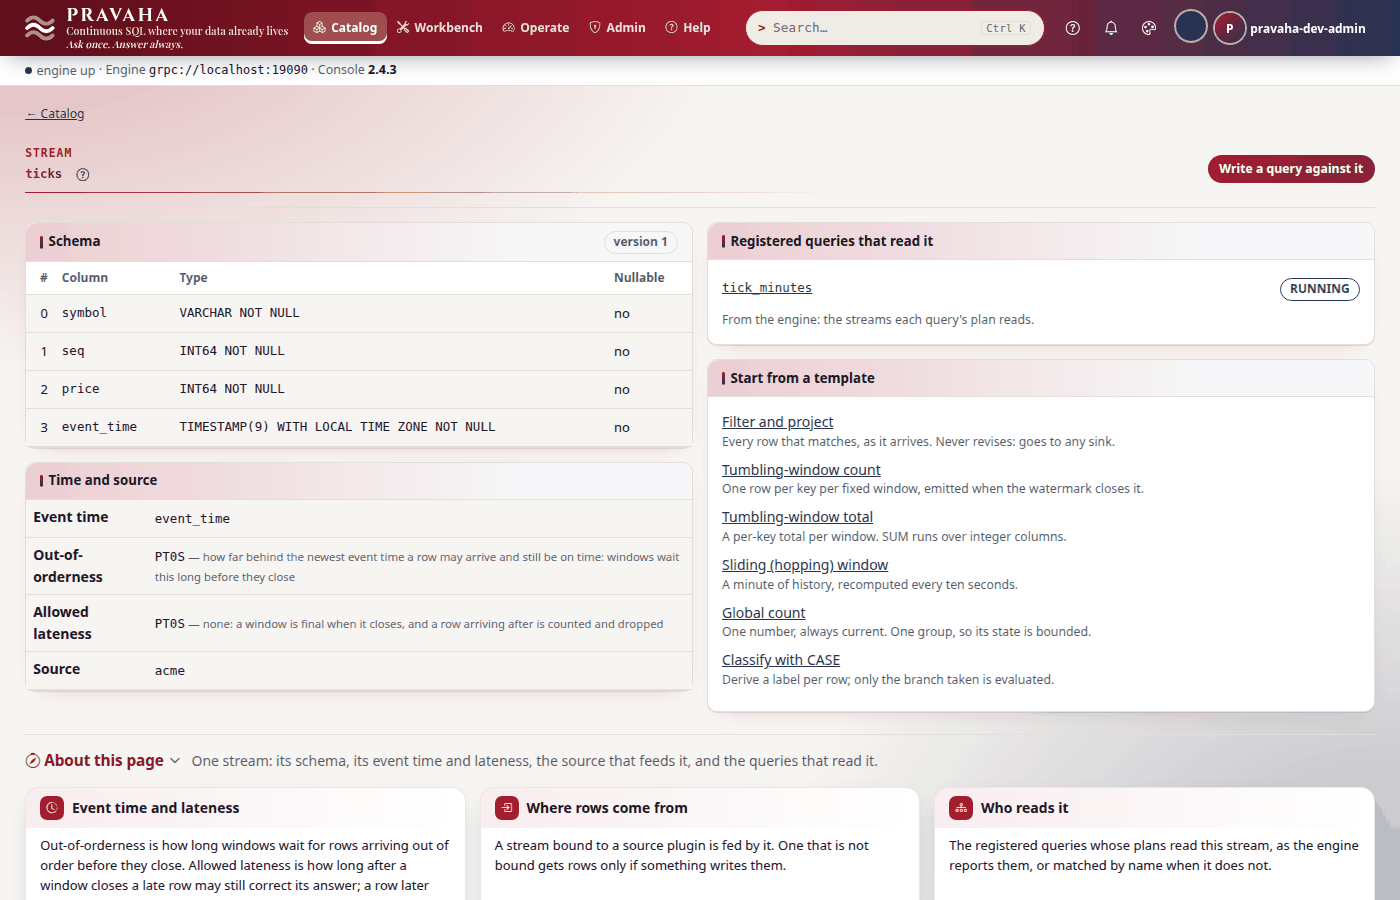
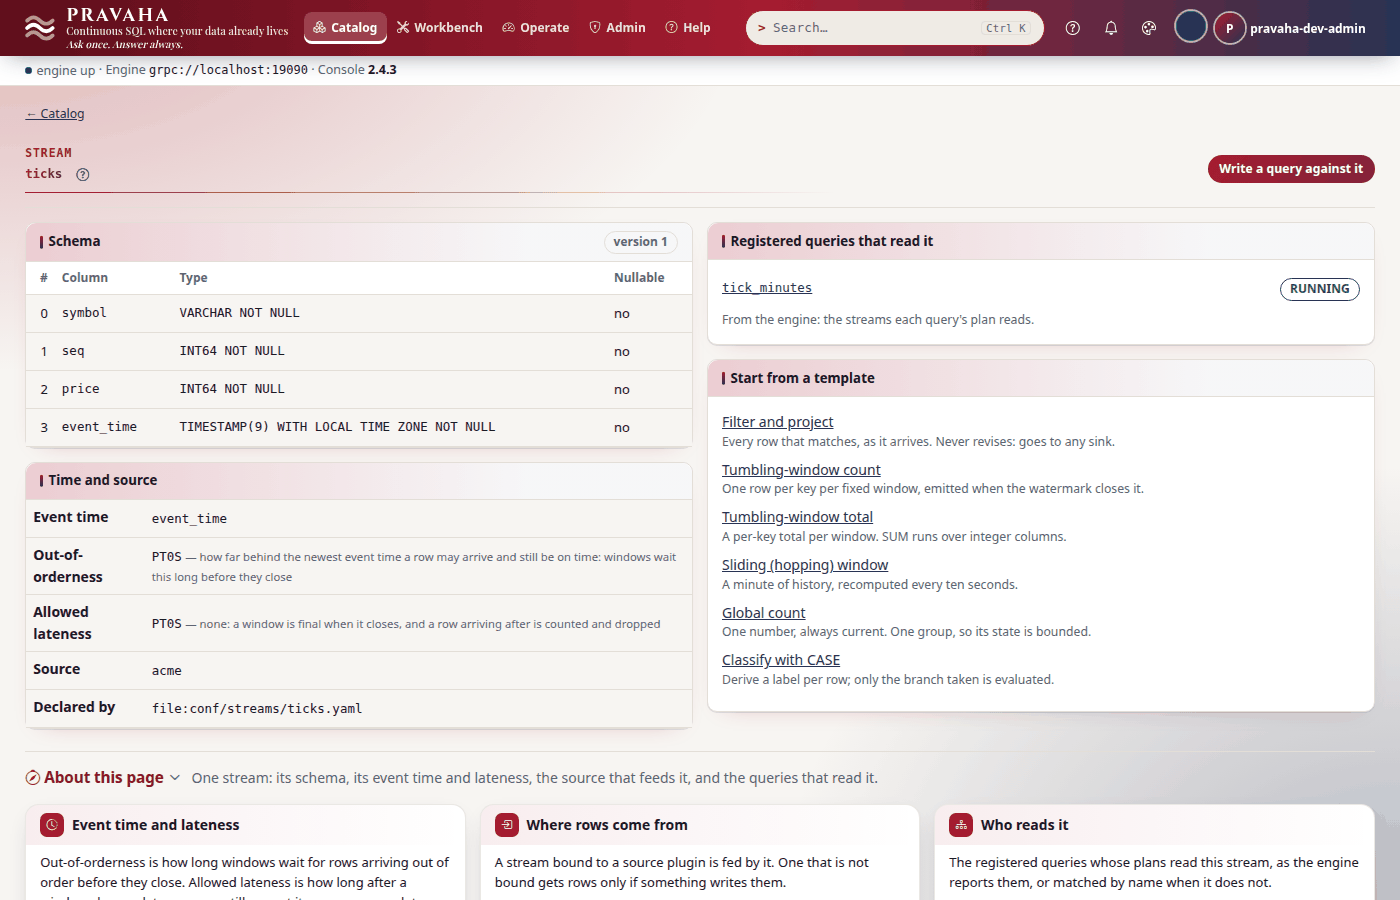
Tutorial 13 on the fixes: plugin new takes the checkout's version, the TCK over two partitions; the stream and the sink a file each; the plugin's own code by name, not an invented PRV number

diff --git a/sdk/python/tools/tutorials/t13.py b/sdk/python/tools/tutorials/t13.py
@@ -11,22 +11,21 @@ TCK, the jar dropped in beside the source, a restart, and a query writing to it.
 """
 
 import pathlib
-import re
 
 from tutorial_captures import REPO, Cli, Node, Open, Restart, Sh, Snap, Until
 
 DOC = "13-writing-a-connector.md"
 
-NODE = Node(config="t13/application.yaml", plugins=True, files=(
+NODE = Node(plugins=True, files=(
+    ("t13/streams", "conf/streams"),
     ("t13/AcmeSourcePlugin.java", "tutorial/AcmeSourcePlugin.java"),
     ("t13/AcmeReader.java", "tutorial/AcmeReader.java"),
     ("t13/AcmeSourceTckTest.java", "tutorial/AcmeSourceTckTest.java"),
-    ("t13/application-with-ledger.yaml", "tutorial/application-with-ledger.yaml"),
+    ("t13/sinks", "tutorial/sinks"),
     ("t13/tick_minutes.sql", "tick_minutes.sql"),
 ))
 
 _M2 = REPO / ".m2-local" if (REPO / ".m2-local").is_dir() else pathlib.Path.home() / ".m2" / "repository"
-_VERSION = re.search(r"<version>([^<]+)</version>", (REPO / "pom.xml").read_text(encoding="utf-8")).group(1)
 _MVN = f"mvn -o -B -Dmaven.repo.local={_M2}"
 T = "docs/tutorials/data/t13"
 SRC = "src/main/java/com/example/acme"
@@ -38,8 +37,8 @@ LEDGER_JAR = "pravaha-plugin-acme-ledger/target/pravaha-plugin-acme-ledger-0.1.0
 
 
 def new(capture, name: str, kind: str) -> Sh:
-    return Sh(capture, f"pravaha plugin new {name} --kind {kind} --pravaha-version {_VERSION}",
-              show=f'pravaha plugin new {name} --kind {kind} --pravaha-version "$PRAVAHA_VERSION"')
+    # In a checkout the CLI takes the version the checkout builds (PLUGINVER-1), as a reader's does.
+    return Sh(capture, f"pravaha plugin new {name} --kind {kind}")
 
 
 def verify(capture, project: str, prefix: str = "") -> Sh:
@@ -85,7 +84,7 @@ STEPS = (
     # The sink, briefly.
     new("t13-new-sink", "acme-ledger", "sink"),
     verify("t13-verify-sink", "pravaha-plugin-acme-ledger"),
-    Sh("t13-install-sink", f"cp {LEDGER_JAR} plugins/ && cp tutorial/application-with-ledger.yaml conf/application.yaml"
+    Sh("t13-install-sink", f"cp {LEDGER_JAR} plugins/ && cp -r tutorial/sinks conf/"
                            " && mkdir -p data/outgoing && ls plugins",
        show='cp target/pravaha-plugin-acme-ledger-0.1.0-SNAPSHOT.jar "$PRAVAHA_HOME/plugins/" && ls "$PRAVAHA_HOME/plugins"'),
     Restart(),

diff --git a/docs/tutorials/data/t13/AcmeSourceTckTest.java b/docs/tutorials/data/t13/AcmeSourceTckTest.java
@@ -13,9 +13,9 @@ import com.ash.messaging.pravaha.api.plugin.StreamSourcePlugin;
 import com.ash.messaging.pravaha.testkit.tck.SourcePluginTck;
 
 /**
- * The ten conformance tests every shipped source runs, over a fixture of one symbol and five ticks.
- * One symbol, because the TCK's replay test resumes partition 0 and expects the rest of the whole
- * fixture from it (TCKPARTS-1): with two symbols it would count the other symbol's ticks as lost.
+ * The ten conformance tests every shipped source runs, over a fixture of two symbols -- two
+ * partitions -- and five ticks each. The replay test resumes every partition from an offset of its
+ * own and expects that partition's remainder.
  */
 class AcmeSourceTckTest extends SourcePluginTck {
 
@@ -24,7 +24,7 @@ class AcmeSourceTckTest extends SourcePluginTck {
     @Override
     protected StreamSourcePlugin createPlugin() {
         AcmeSourcePlugin plugin = new AcmeSourcePlugin();
-        plugin.configure(new Context("ticks", Map.of("symbols", "ACME", "ticks", "5")));
+        plugin.configure(new Context("ticks", Map.of("symbols", "ACME,GLOBEX", "ticks", "5")));
         plugin.open();
         return plugin;
     }
@@ -36,6 +36,6 @@ class AcmeSourceTckTest extends SourcePluginTck {
 
     @Override
     protected int expectedRecordCount() {
-        return 5;
+        return 10;
     }
 }

diff --git a/docs/tutorials/13-writing-a-connector.md b/docs/tutorials/13-writing-a-connector.md
@@ -22,19 +22,17 @@ was printed by a real build and a real node running these steps.
 - Java 21 or later and Maven 3.9. The engine's artefacts in your local Maven repository: in a checkout,
   `./mvnw -q -DskipTests install` once (it installs `pravaha-api` and `pravaha-testkit`, which a
   plugin builds against).
-- `PRAVAHA_VERSION` set to that version. `pravaha plugin new` writes it into the project's `pom.xml`;
-  without `--pravaha-version` it uses the CLI's own version, which in a checkout is the release number
-  without `-SNAPSHOT` (`2.4.3` where the engine you built is `2.4.3-SNAPSHOT`), and the build then
-  cannot find the engine (PLUGINVER-1).
+- `pravaha plugin new` writes the engine's version into the project's `pom.xml`: run from a checkout,
+  the version that checkout builds (`-SNAPSHOT` and all), so the project finds the engine you
+  installed; from an installed CLI, the CLI's own. `--pravaha-version` names another.
 - The tutorial's files, in [data/t13/](data/t13/): the source (`AcmeSourcePlugin.java`,
-  `AcmeReader.java`), its TCK test (`AcmeSourceTckTest.java`), the node's `application.yaml`, the same
-  with the sink bound (`application-with-ledger.yaml`) and `tick_minutes.sql`.
+  `AcmeReader.java`), its TCK test (`AcmeSourceTckTest.java`), the stream it feeds
+  (`streams/ticks.yaml`), the sink of step 6 (`sinks/ledger.yaml`) and `tick_minutes.sql`.
 
 ```bash
-export PRAVAHA_VERSION=$(./mvnw help:evaluate -Dexpression=project.version -q -DforceStdout)
 export PRAVAHA_HOME=$HOME/pravaha-t13 T=$PWD/docs/tutorials/data/t13
 mkdir -p $PRAVAHA_HOME/conf $PRAVAHA_HOME/data $PRAVAHA_HOME/plugins ~/work
-cp $T/application.yaml $PRAVAHA_HOME/conf/ && cp $T/tick_minutes.sql ~/work/
+cp -r $T/streams $PRAVAHA_HOME/conf/ && cp $T/tick_minutes.sql ~/work/
 cd ~/work
 ```
 
@@ -53,7 +51,7 @@ cd ~/work
 
 <!-- capture: t13-new -->
 ```text
-$ pravaha plugin new acme --kind source --pravaha-version "$PRAVAHA_VERSION"
+$ pravaha plugin new acme --kind source
 created a Pravaha source plugin, acme in pravaha-plugin-acme/
   pom.xml                                                                                       pravaha-api <version> (provided) and pravaha-testkit (test); Java 21
   src/main/java/com/example/acme/AcmeSourcePlugin.java                                          the plugin: name, version, configure (validates), capabilities, schema, partitions, health
@@ -63,7 +61,7 @@ created a Pravaha source plugin, acme in pravaha-plugin-acme/
   README.md                                                                                     how to build it, and where the jar goes
 
 choices made for you:
-  - pravaha-api and pravaha-testkit <version>: as --pravaha-version said
+  - pravaha-api and pravaha-testkit <version>: this source checkout's version (--pravaha-version for another)
   - pravaha-api at provided scope: the node carries it, and a second copy in plugins/ would clash
   - maven.compiler.release 21: production runs Java 21, which cannot load newer class files
   - the TCK wired in (SourcePluginTck), so a change that breaks the contract fails `mvn verify`
@@ -201,23 +199,23 @@ You should see the two classes in place of the example's.
 
 ## Step 3 · The TCK, and a contract broken on purpose
 
-The TCK test extends `SourcePluginTck` and gives it a fixture — here one symbol and five ticks:
+The TCK test extends `SourcePluginTck` and gives it a fixture — here two symbols, so two partitions,
+and five ticks each:
 
 <!-- file: data/t13/AcmeSourceTckTest.java -->
 ```java
     @Override
     protected StreamSourcePlugin createPlugin() {
         AcmeSourcePlugin plugin = new AcmeSourcePlugin();
-        plugin.configure(new Context("ticks", Map.of("symbols", "ACME", "ticks", "5")));
+        plugin.configure(new Context("ticks", Map.of("symbols", "ACME,GLOBEX", "ticks", "5")));
         plugin.open();
         return plugin;
     }
 ```
 
-One symbol, not two, for a reason: the TCK's replay test resumes **partition 0** from an offset and
-expects the rest of the **whole** fixture from it, so with two symbols it counts the other symbol's
-ticks as lost and fails a source that loses nothing (TCKPARTS-1). Before the passing run, see what a
-real mistake looks like. A reader that ignores `pause` turns the engine's flow control into an
+Two partitions are worth testing: the TCK's replay test resumes **every** partition from an offset of
+its own and expects that partition's remainder, which is what a node does after a restart. Before the
+passing run, see what a real mistake looks like. A reader that ignores `pause` turns the engine's flow control into an
 out-of-memory error further down the pipeline; make that mistake:
 
 <!-- capture: t13-break -->
@@ -272,25 +270,21 @@ pravaha-plugin-acme-<version>-SNAPSHOT.jar
 ```
 <!-- /capture -->
 
-The node's configuration binds the stream `ticks` to the plugin by the name `name()` answers, with the
-options `configure` reads:
+The stream's file, `conf/streams/ticks.yaml`, binds the stream `ticks` to the plugin by the name
+`name()` answers, with the options `configure` reads:
 
-<!-- file: data/t13/application.yaml -->
+<!-- file: data/t13/streams/ticks.yaml -->
 ```yaml
-pravaha:
-  streams:
-    ticks:
-      schema: "symbol:STRING,seq:INT64,price:INT64,event_time:TIMESTAMP"
-      event-time: event_time
-      out-of-orderness: 0s
-  sources:
-    ticks:
-      plugin: acme                   # what AcmeSourcePlugin.name() answers
-      options:                       # what AcmeSourcePlugin.configure() reads, and checks
-        symbols: ACME,GLOBEX         # one partition each
-        ticks: "6"                   # per symbol
-        start: "2026-10-01T09:00:00Z"
-        step-seconds: "15"
+schema: "symbol:STRING,seq:INT64,price:INT64,event_time:TIMESTAMP"
+event-time: event_time
+out-of-orderness: 0s
+source:
+  plugin: acme                   # what AcmeSourcePlugin.name() answers
+  options:                       # what AcmeSourcePlugin.configure() reads, and checks
+    symbols: ACME,GLOBEX         # one partition each
+    ticks: "6"                   # per symbol
+    start: "2026-10-01T09:00:00Z"
+    step-seconds: "15"
 ```
 
 Start the node from a second terminal (`bin/pravaha-server --spring.profiles.active=dev,users &`, which puts `plugins/` on the
@@ -308,8 +302,8 @@ acme              <version>    source       yes         yes     UNKNOWN  source:
 <!-- capture: t13-streams -->
 ```text
 $ pravaha streams list
-NAME   VERSION  EVENT TIME  LATENESS  SOURCE  FIELDS
-ticks  1        event_time  PT0S      acme    symbol VARCHAR NOT NULL, seq INT64 NOT NULL, price INT64 NOT NULL, event_time TIMESTAMP(9) WITH LOCAL TIME ZONE NOT NULL
+NAME   VERSION  EVENT TIME  LATENESS  SOURCE  ORIGIN                        FIELDS
+ticks  1        event_time  PT0S      acme    file:conf/streams/ticks.yaml  symbol VARCHAR NOT NULL, seq INT64 NOT NULL, price INT64 NOT NULL, event_time TIMESTAMP(9) WITH LOCAL TIME ZONE NOT NULL
 ```
 <!-- /capture -->
 
@@ -345,7 +339,7 @@ Ticks 1 to 4 of each symbol (09:00:00 to 09:00:45) are in the 09:00 minute; tick
 the watermark past its end (the stream allows no out-of-orderness), so it closed. Ticks 5 and 6 are in
 09:01, which closes when a later tick comes — and this source has no more.
 
-![The stream ticks in the catalogue: four columns symbol, seq, price and event_time, all not null, event time event_time with no out-of-orderness or allowed lateness, the source acme, and the registered query tick_minutes reading it](img/t13/02-stream.png)
+![The stream ticks in the catalogue: four columns symbol, seq, price and event_time, all not null, event time event_time with no out-of-orderness or allowed lateness, the source acme, Declared by file:conf/streams/ticks.yaml, and the registered query tick_minutes reading it](img/t13/02-stream.png)
 
 ![The live page of tick_minutes: two current rows for the 09:00 to 09:01 window, ACME low 103 high 110 from four ticks and GLOBEX low 152 high 160 from four ticks](img/t13/03-view.png)
 
@@ -359,7 +353,7 @@ can do with them — append only, or upsert by key, retractions or not, exactly 
 
 <!-- capture: t13-new-sink -->
 ```text
-$ pravaha plugin new acme-ledger --kind sink --pravaha-version "$PRAVAHA_VERSION"
+$ pravaha plugin new acme-ledger --kind sink
 created a Pravaha sink plugin, acme-ledger in pravaha-plugin-acme-ledger/
   pom.xml                                                                                     pravaha-api <version> (provided) and pravaha-testkit (test); Java 21
   src/main/java/com/example/acmeledger/AcmeLedgerSinkPlugin.java                              the plugin: appends rows to a file (option path); append-only, at-least-once
@@ -368,7 +362,7 @@ created a Pravaha sink plugin, acme-ledger in pravaha-plugin-acme-ledger/
   README.md                                                                                   how to build it, and where the jar goes
 
 choices made for you:
-  - pravaha-api and pravaha-testkit <version>: as --pravaha-version said
+  - pravaha-api and pravaha-testkit <version>: this source checkout's version (--pravaha-version for another)
   - pravaha-api at provided scope: the node carries it, and a second copy in plugins/ would clash
   - maven.compiler.release 21: production runs Java 21, which cannot load newer class files
   - the TCK wired in (SinkPluginTck), so a change that breaks the contract fails `mvn verify`
@@ -393,7 +387,8 @@ $ mvn verify | grep -E 'Tests run:|FAILURE!|must|BUILD'
 ```
 <!-- /capture -->
 
-Drop the jar beside the source's, bind it, and restart the node (plugins are found at start):
+Drop the jar beside the source's, bind it with a file in `conf/sinks/`, and restart the node — the node
+would pick the file up at its next look, but a plugin's jar is found only at start:
 
 <!-- capture: t13-install-sink -->
 ```text
@@ -403,17 +398,17 @@ pravaha-plugin-acme-ledger-<version>-SNAPSHOT.jar
 ```
 <!-- /capture -->
 
-<!-- file: data/t13/application-with-ledger.yaml -->
+<!-- file: data/t13/sinks/ledger.yaml -->
 ```yaml
-  sinks:
-    ledger:
-      plugin: acme-ledger            # what AcmeLedgerSinkPlugin.name() answers
-      options:
-        path: data/outgoing/ledger.txt
+plugin: acme-ledger            # what AcmeLedgerSinkPlugin.name() answers
+options:
+  path: data/outgoing/ledger.txt
 ```
 
-(`cp $T/application-with-ledger.yaml $PRAVAHA_HOME/conf/application.yaml`, and `mkdir -p
-$PRAVAHA_HOME/data/outgoing`: the sink opens its file at start and does not make the directory.)
+(`cp -r $T/sinks $PRAVAHA_HOME/conf/`, and `mkdir -p $PRAVAHA_HOME/data/outgoing`: the sink opens its
+file at start and does not make the directory.) The node comes back with `tick_minutes` registered — a
+node keeps its registry journal and checkpoints under its data folder, `$PRAVAHA_HOME/data` — and the
+source resumes each partition from its checkpointed offset.
 
 <!-- capture: t13-sinks -->
 ```text
@@ -469,12 +464,11 @@ You should see `ledger` with plugin `acme-ledger`, `APPEND`, `AT_LEAST_ONCE`, an
 
 | Symptom | What it means | What to do |
 |---|---|---|
-| `Could not find artifact com.ash.messaging:pravaha-api:jar:2.4.3` | the project names a version that is not in your Maven repository; in a checkout the CLI's own version lacks `-SNAPSHOT` (PLUGINVER-1) | `plugin new ... --pravaha-version "$PRAVAHA_VERSION"`, or set `pravaha.version` in the pom |
+| `Could not find artifact com.ash.messaging:pravaha-api:jar:<version>` | the project names a version that is not in your Maven repository | `plugin new ... --pravaha-version <the version you installed>`, or set `<pravaha.version>` in the pom |
 | the node will not start: no plugin `acme` | the jar is not in `plugins/`, the node was not started with `-Dloader.path=plugins` (`bin/pravaha-server` does it), or `META-INF/services` does not name the class | check all three; `unzip -l` the jar for the services file |
 | `PRV-5001` at start | a binding lacks an option `configure` requires; the message names the key | add it under `options:` |
-| `PRV-5990` (the plugin's own) at start | `configure` refused a value | the message says which and why |
+| the plugin's own code at start (`ACME_BAD_CONFIGURATION`) | `configure` refused a value | the message says which and why |
 | `pravaha plugins` says `COMPATIBLE no` | the plugin was built against a plugin API this node does not speak | rebuild against the node's version |
 | `UnsupportedClassVersionError` | the jar was compiled for a newer Java than the node runs | keep `maven.compiler.release` at 21 |
-| the TCK's `replayableOffsetsActuallyReplay` fails for a multi-partition fixture | the TCK resumes partition 0 and expects the rest of the whole fixture (TCKPARTS-1) | a one-partition fixture |
 | `PRV-2041` registering with `--sink` | the query's rows can be withdrawn, and the sink appends only | a filter or projection, or a sink that upserts and retracts |
 | the sink fails to open | its directory does not exist | `mkdir -p` it before the start |
